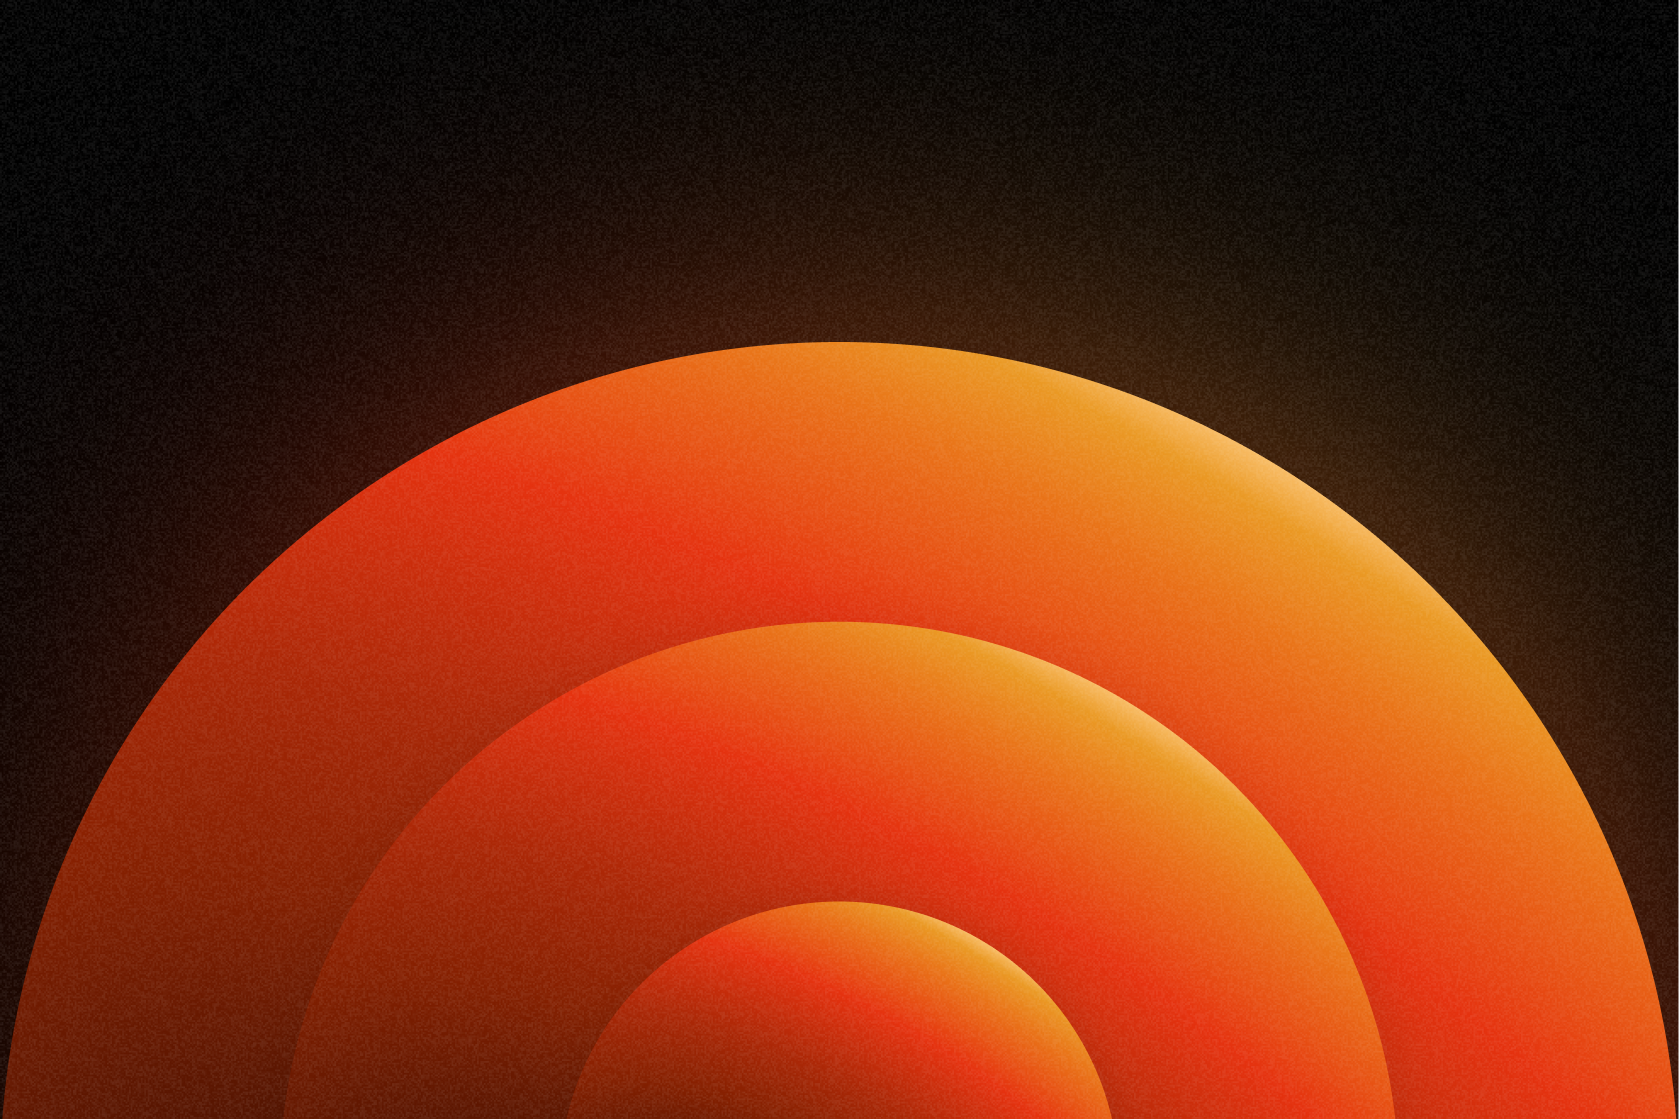
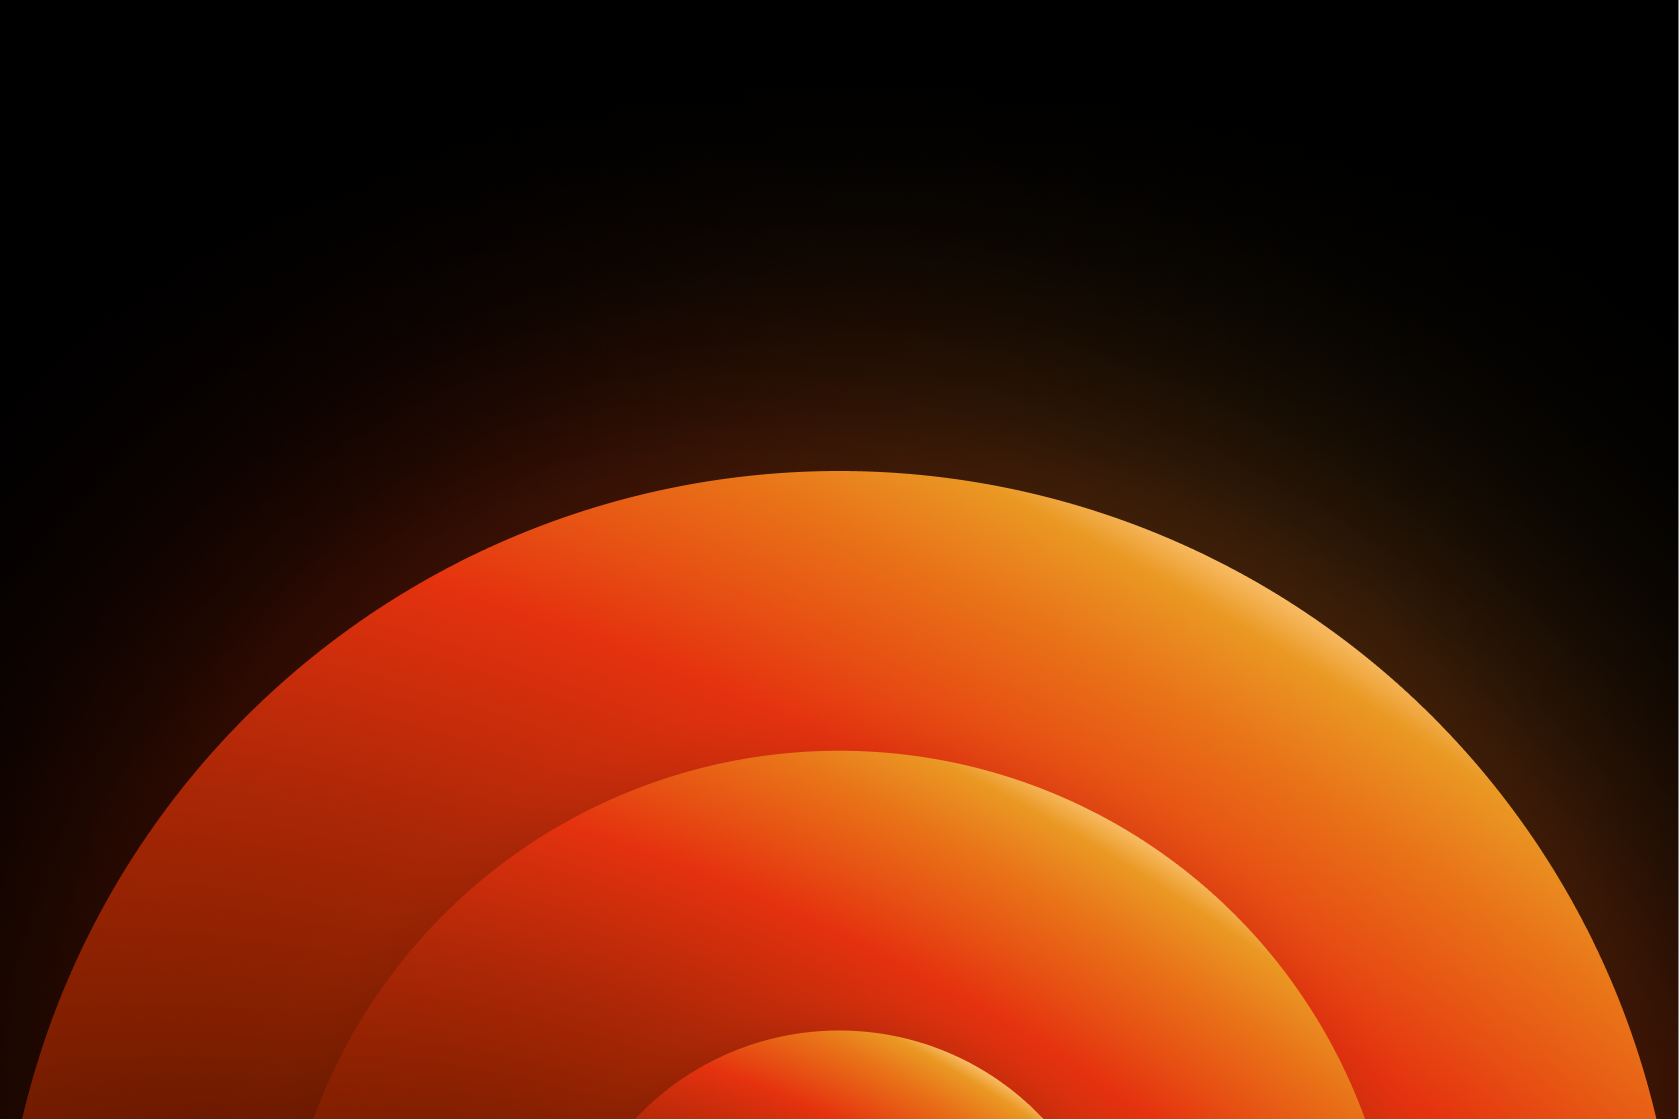
change background

diff --git a/index.html b/index.html
@@ -25,7 +25,7 @@
     </script>
     <style>
         .bg-custom-image {
-        background-image: url('bgorange.png');
+        background-image: url('orange.png');
         background-size: cover;
         background-position: center;
 }
